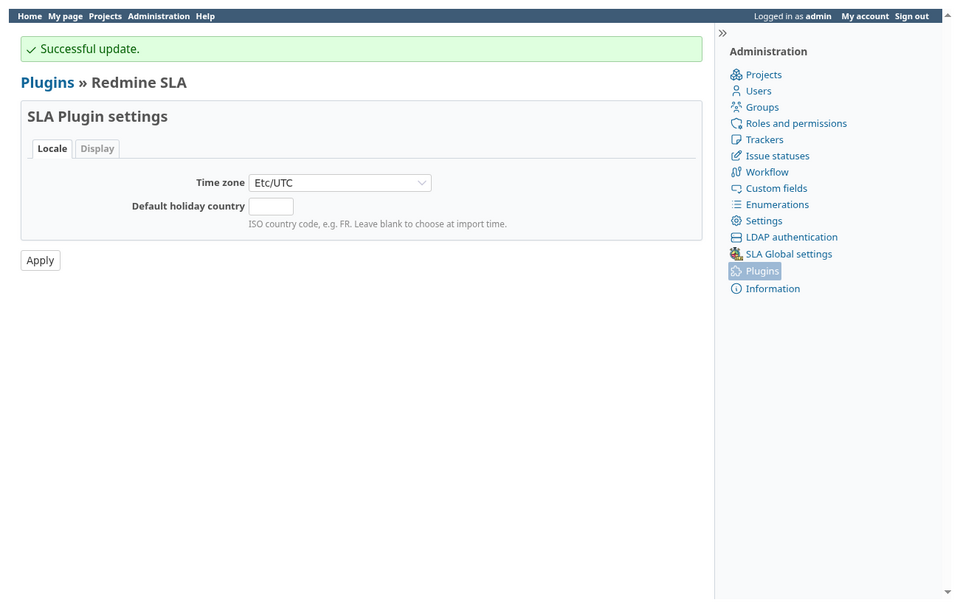
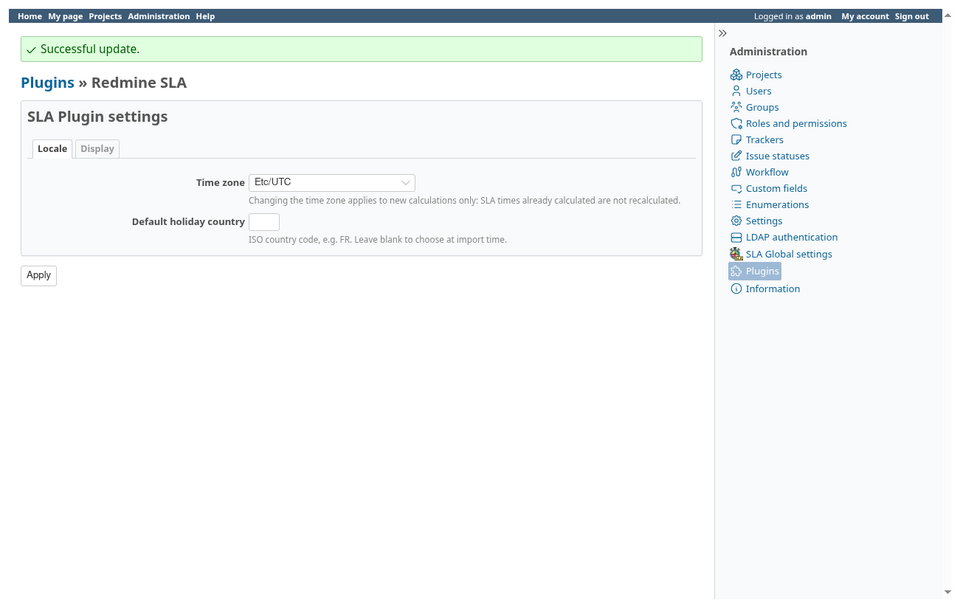
Record the 3.4.0 release matrix
Nine Redmine/database combinations, upgrade from 3.3.4, regression
tests for each fix, and the regenerated locale screenshots showing the
time zone note.

Changed region(s): [[0.125, 0.2812, 0.7188, 0.4062], [0.0312, 0.4062, 0.0625, 0.4688]]

diff --git a/doc/TESTING.md b/doc/TESTING.md
@@ -1,5 +1,78 @@
 # Testing
 
+## Version 3.4.0 release matrix
+
+Validated on **2026-11-07 and 2026-11-08** in isolated local containers, one
+fresh database per suite, with no shared instance or production deployment.
+Source snapshot: `release/3.4.0` at `4482c94` (icon sets, time zone parsing and
+spent-time fixes). The system suites of Redmine 6 and 7 were rerun on `0453e41`,
+which only changes `test/system/sla_icon_url_prefix_test.rb` (see below).
+
+| Redmine | Ruby | Rails | PostgreSQL 17.7 | MariaDB 10.11.19 | MySQL 8.0.46 |
+| --- | --- | --- | --- | --- | --- |
+| 5.1.13 | 3.2.11 | 6.1.7.10 | 1189 / 7409 | 1189 / 7406 | 1189 / 7406 |
+| 6.1.4 | 3.4.11 | 7.2.3.2 | 1249 / 7846 | 1189 / 7302 | 1189 / 7302 |
+| 7.0.1 | 4.0.7 | 8.1.3.1 | 1189 / 7859 | 1189 / 7856 | 1189 / 7856 |
+
+Cells record **tests / assertions**. Total: **10,761 tests / 68,242 assertions**,
+zero failures or errors, 12 expected skips (the two PostgreSQL-specific tests on
+each MariaDB/MySQL combination). Each combination ran 286 unit, 470 functional,
+358 integration/API, 39 Chromium system and 30 standalone icon/HTML tests, plus
+6 role/project documentation tests; Redmine 6/PostgreSQL ran all 66
+documentation tests instead.
+
+Rails session SQL modes, as measured: MySQL `ONLY_FULL_GROUP_BY,
+NO_AUTO_VALUE_ON_ZERO, STRICT_TRANS_TABLES, STRICT_ALL_TABLES, NO_ZERO_IN_DATE,
+NO_ZERO_DATE, ERROR_FOR_DIVISION_BY_ZERO, NO_ENGINE_SUBSTITUTION`; MariaDB
+`NO_AUTO_VALUE_ON_ZERO, STRICT_TRANS_TABLES, STRICT_ALL_TABLES,
+ERROR_FOR_DIVISION_BY_ZERO, NO_AUTO_CREATE_USER, NO_ENGINE_SUBSTITUTION`.
+
+**Upgrade from 3.3.4**, on each of the nine combinations: migrate a database with
+3.3.4 (migration 024), load the fixtures and run `update_sla scope=all`, replace
+the plugin with 3.4.0 and run `redmine:plugins:migrate`. Migrations 025 and 026
+applied; the 72 SLA caches, 138 spent rows (18,455 minutes) and the
+`sla_view_roll_statuses` view (397 rows) were unchanged after migration and after
+a new `update_sla scope=all`.
+
+New regression tests reproduce each fix before it: concurrent spent time
+(180 instead of 90), refresh (999 kept instead of 90), counted statuses and
+tracker mappings (caches left or recalculated in the request) and time zones
+(`America/New_York` failing on PostgreSQL and NULL on MariaDB/MySQL,
+`Etc/GMT+12` read as `Etc/GMT`). They failed on the previous code on the three
+databases and pass with the fixes.
+
+Notes on the runs:
+
+- The first Redmine 7/PostgreSQL system run had intermittent context-menu
+  failures. They came from `sla_icon_url_prefix_test.rb`, which left importmap
+  module URLs cached with its `/redmine` prefix: the importmap cache sweeper only
+  exists when classes reload. With seed 30488 the suite failed 7 tests with that
+  file and none without it. `0453e41` clears the map directly; seeds 30488 and
+  14243 then pass, and the six Redmine 6/7 system suites were rerun green.
+- One Redmine 6/MySQL system run failed the URL-prefix test once while two
+  browsers ran in parallel. Its seed (26232) passed three times on replay, with
+  the old and new test file: a timing failure under load, not an order
+  dependency.
+- Rails 8.1 loads `db/schema.rb` when `db:migrate` creates a database. The
+  isolated runner deletes that file before each fresh database so a schema dumped
+  by a previous run does not hide the plugin migrations. Redmine upgrades migrate
+  an existing database and are not affected.
+
+Commands, from the Redmine root with `RAILS_ENV=test`, automatic test schema
+loading disabled (`config.active_record.maintain_test_schema = false`) and
+`GOOGLE_CHROME_OPTS_ARGS=headless,disable-gpu,no-sandbox,disable-dev-shm-usage`:
+
+```sh
+bundle exec rake db:drop db:create db:migrate redmine:plugins:migrate
+bundle exec rake redmine:plugins:redmine_sla:build_fixture
+bundle exec rails test plugins/redmine_sla/test/unit   # also functional, integration
+bundle exec ruby -Itest -e 'files, options = ARGV.partition { |a| a.end_with?(".rb") }; ARGV.replace(options); files.each { |path| require File.expand_path(path) }' plugins/redmine_sla/test/system/*_test.rb
+```
+
+The Rake test tasks (`redmine:plugins:test:*`) reload `db/schema.rb` and drop the
+plugin's SQL functions and views; use the commands above. Regenerated the two
+locale screenshots, which now show the time zone note.
+
 ## Icon manifest review follow-up (2026-11-06)
 
 After the full matrix below, manifest loading was hardened and size keys were

diff --git a/CHANGELOG.md b/CHANGELOG.md
@@ -64,14 +64,16 @@
 
 ### Tests
 
-- Follow-up manifest and real URL-prefix checks on Redmine 5/6/7: 87 tests /
-  1,606 assertions, no failures/errors/skips. The full matrix below predates
-  this follow-up.
-- Local Redmine 5.1.13/6.1.4/7.0.1 matrix on PostgreSQL 17.7, MariaDB 10.11.19
-  and strict MySQL 8.0.46: 10,545 tests / 65,863 assertions, no failures/errors,
-  12 expected migration skips. See [Testing](doc/TESTING.md).
+- Release matrix on Redmine 5.1.13/6.1.4/7.0.1 with PostgreSQL 17.7, MariaDB
+  10.11.19 and strict MySQL 8.0.46: 10,761 tests / 68,242 assertions, no
+  failures or errors, 12 expected skips. Upgrade from 3.3.4 with populated
+  caches checked on the nine combinations. See [Testing](doc/TESTING.md).
+- Regression tests for each calculation fix, failing on the previous code on
+  the three databases.
+- Clear the importmap cache after the URL-prefix system test, which broke
+  context menus in later system tests on Redmine 7.
 - Regenerate 251 existing screenshots and add 14 icon-set illustrations on
-  Redmine 6.1.4, including both sets and their selector/header distinctions.
+  Redmine 6.1.4; the locale screenshots show the time zone note.
 
 ## 3.3.4 - 2026-10-25
 
